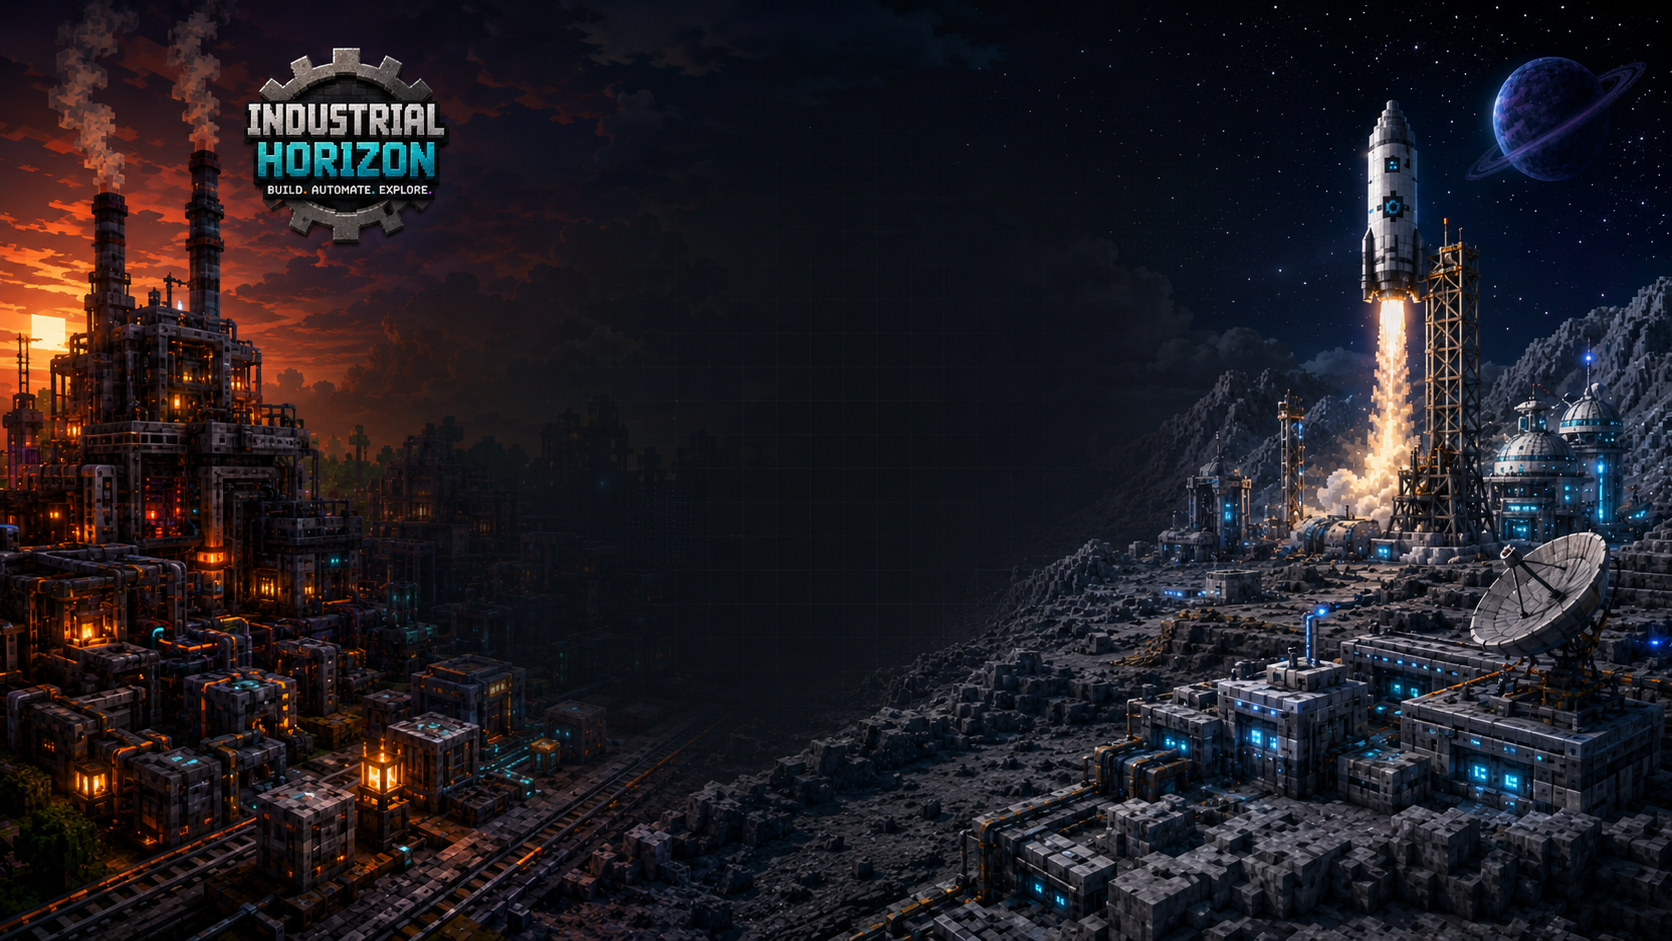
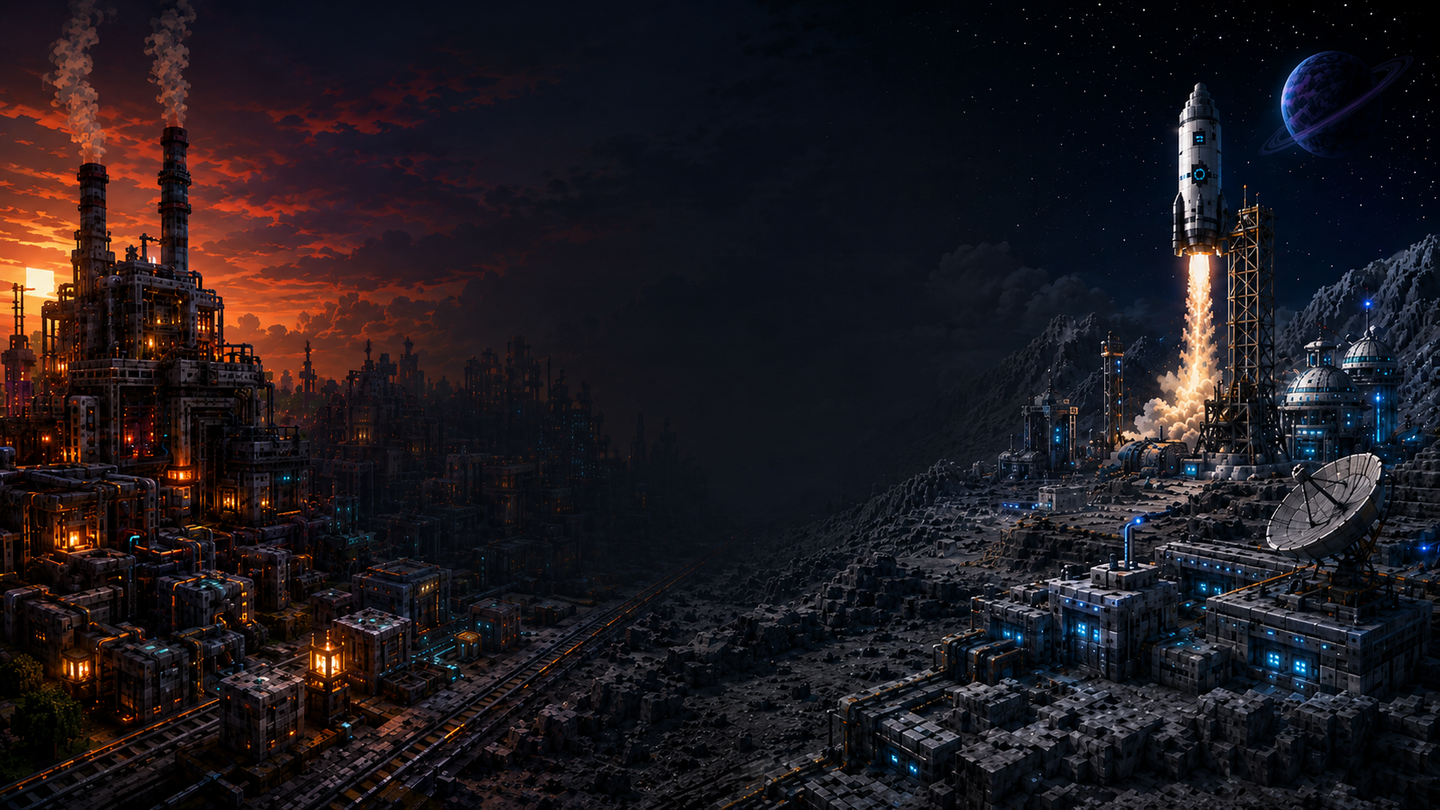
launcher 1.16.0 — логотип крупно по центру, чистый фон

Changed region(s): [[0.0, 0.0309, 1.0, 1.0], [0.875, 0.0617, 1.0, 0.216]]

diff --git a/launcher.py b/launcher.py
@@ -293,7 +293,7 @@ CONFIG = {
     # рядом останется вторая копия, которую придётся сносить руками.
     "WINDOW_TITLE": "Industrial Horizon",
 
-    "LAUNCHER_VERSION": "1.15.1",
+    "LAUNCHER_VERSION": "1.16.0",
 
     # ------------------- АВТОПРОВЕРКА ОБНОВЛЕНИЙ ЛАУНЧЕРА -------------------
     # Если заполнить это (после того как заведёте GitHub-репозиторий с
@@ -305,6 +305,14 @@ CONFIG = {
     "GITHUB_REPO": "nnacivee/checkpoint-launcher",
 
     "LAUNCHER_CHANGELOG": [
+        {
+            "version": "1.16.0",
+            "date": "15 июля 2026",
+            "changes": [
+                "Логотип Industrial Horizon теперь крупно по центру.",
+                "Фон стал чище — без сетки посередине.",
+            ],
+        },
         {
             "version": "1.15.0",
             "date": "15 июля 2026",
@@ -1182,6 +1190,7 @@ def _draw_rounded_rect(canvas: tk.Canvas, x1, y1, x2, y2, radius, **kwargs):
 MAIN_W, MAIN_H = 1080, 640
 BAR_H = 138          # высота нижней полосы с ником и кнопкой «Играть»
 BAR_FEATHER = 34     # мягкий край полосы
+LOGO_SIZE = 300      # логотип по центру свободной зоны над плитками
 
 
 def _cover_fit(img, width: int, height: int):
@@ -1204,12 +1213,24 @@ def render_main_background(width: int, height: int, colors: dict):
     """
     if not _PIL_OK:
         return None
-    path = resource_path("background.png")
     try:
-        art = Image.open(path).convert("RGB")
+        art = Image.open(resource_path("background.png")).convert("RGB")
     except Exception:  # noqa: BLE001
         return None
     base = _cover_fit(art, width, height).convert("RGBA")
+
+    # Логотип отдельной картинкой, а не впечатанный в арт: так его можно
+    # двигать и менять размер, не перерисовывая фон.
+    try:
+        logo = Image.open(resource_path("logo.png")).convert("RGBA")
+        free_bottom = height - BAR_H - 84          # выше плиток
+        k = LOGO_SIZE / max(logo.width, logo.height)
+        logo = logo.resize((max(1, round(logo.width * k)), max(1, round(logo.height * k))),
+                           Image.LANCZOS)
+        base.alpha_composite(logo, ((width - logo.width) // 2,
+                                    max(10, (free_bottom - logo.height) // 2)))
+    except Exception:  # noqa: BLE001
+        pass   # логотипа нет — не беда, окно всё равно рабочее
 
     top = height - BAR_H - BAR_FEATHER
     strip = base.crop((0, top, width, height)).filter(ImageFilter.GaussianBlur(14))